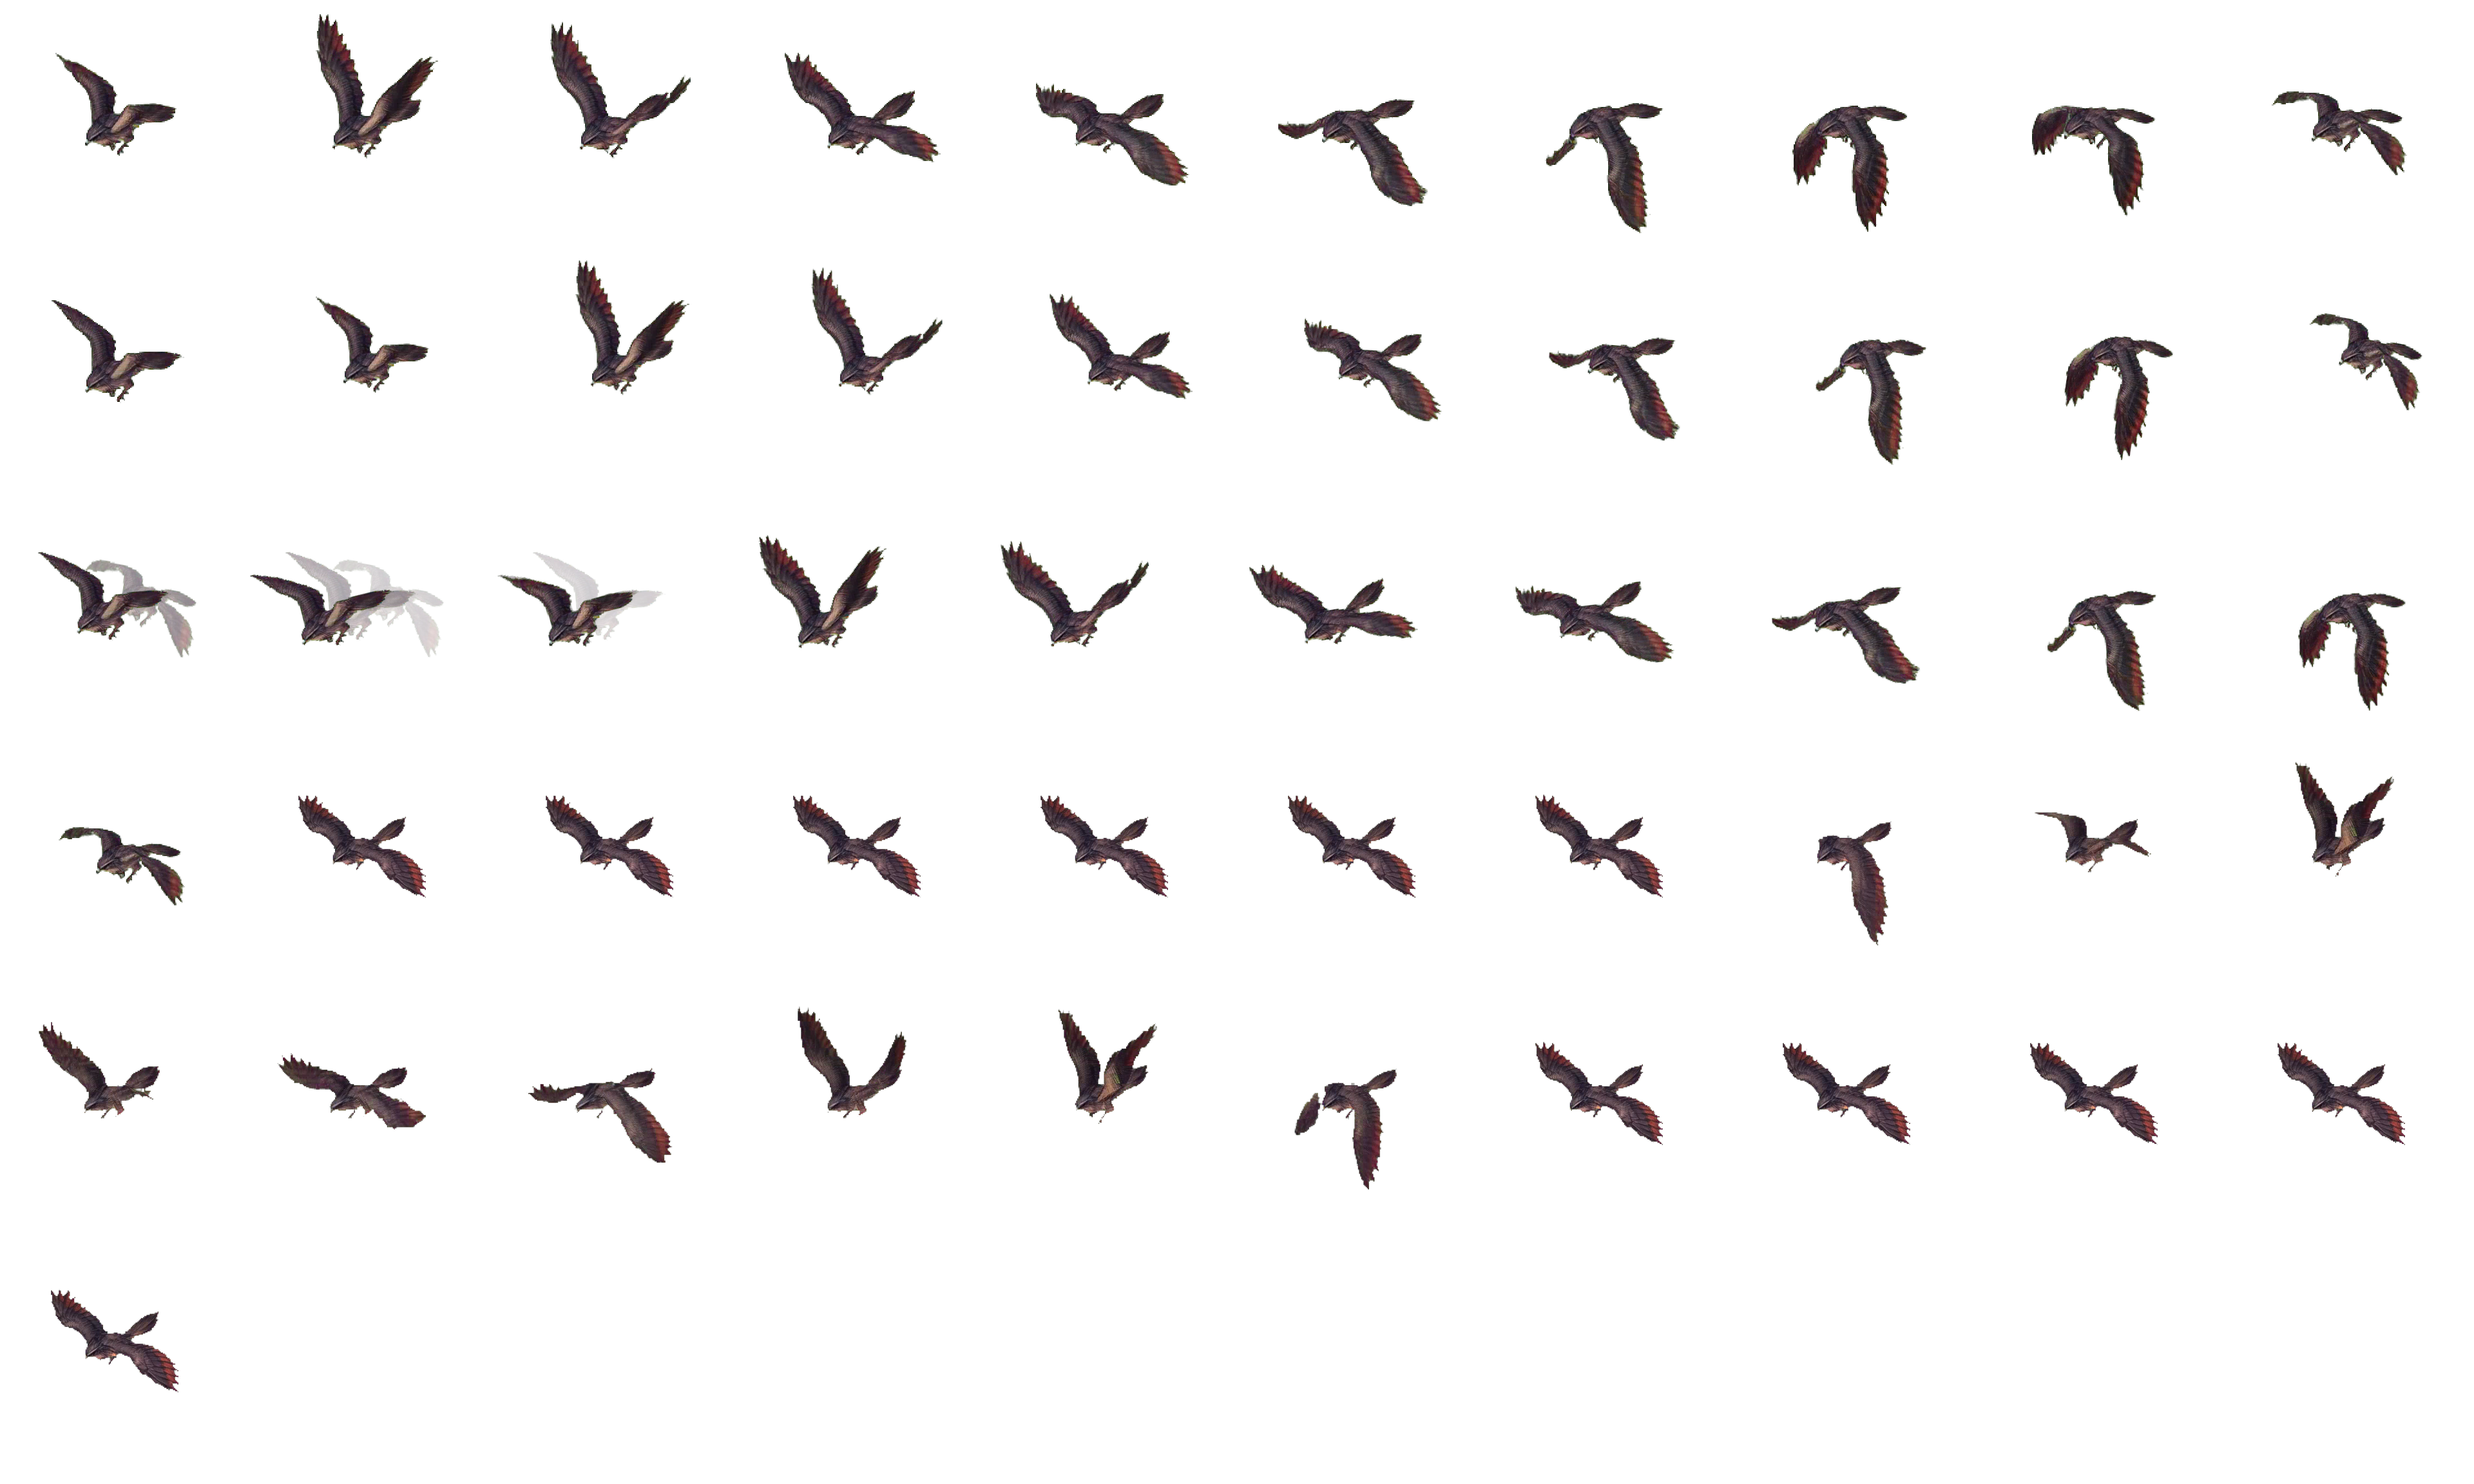
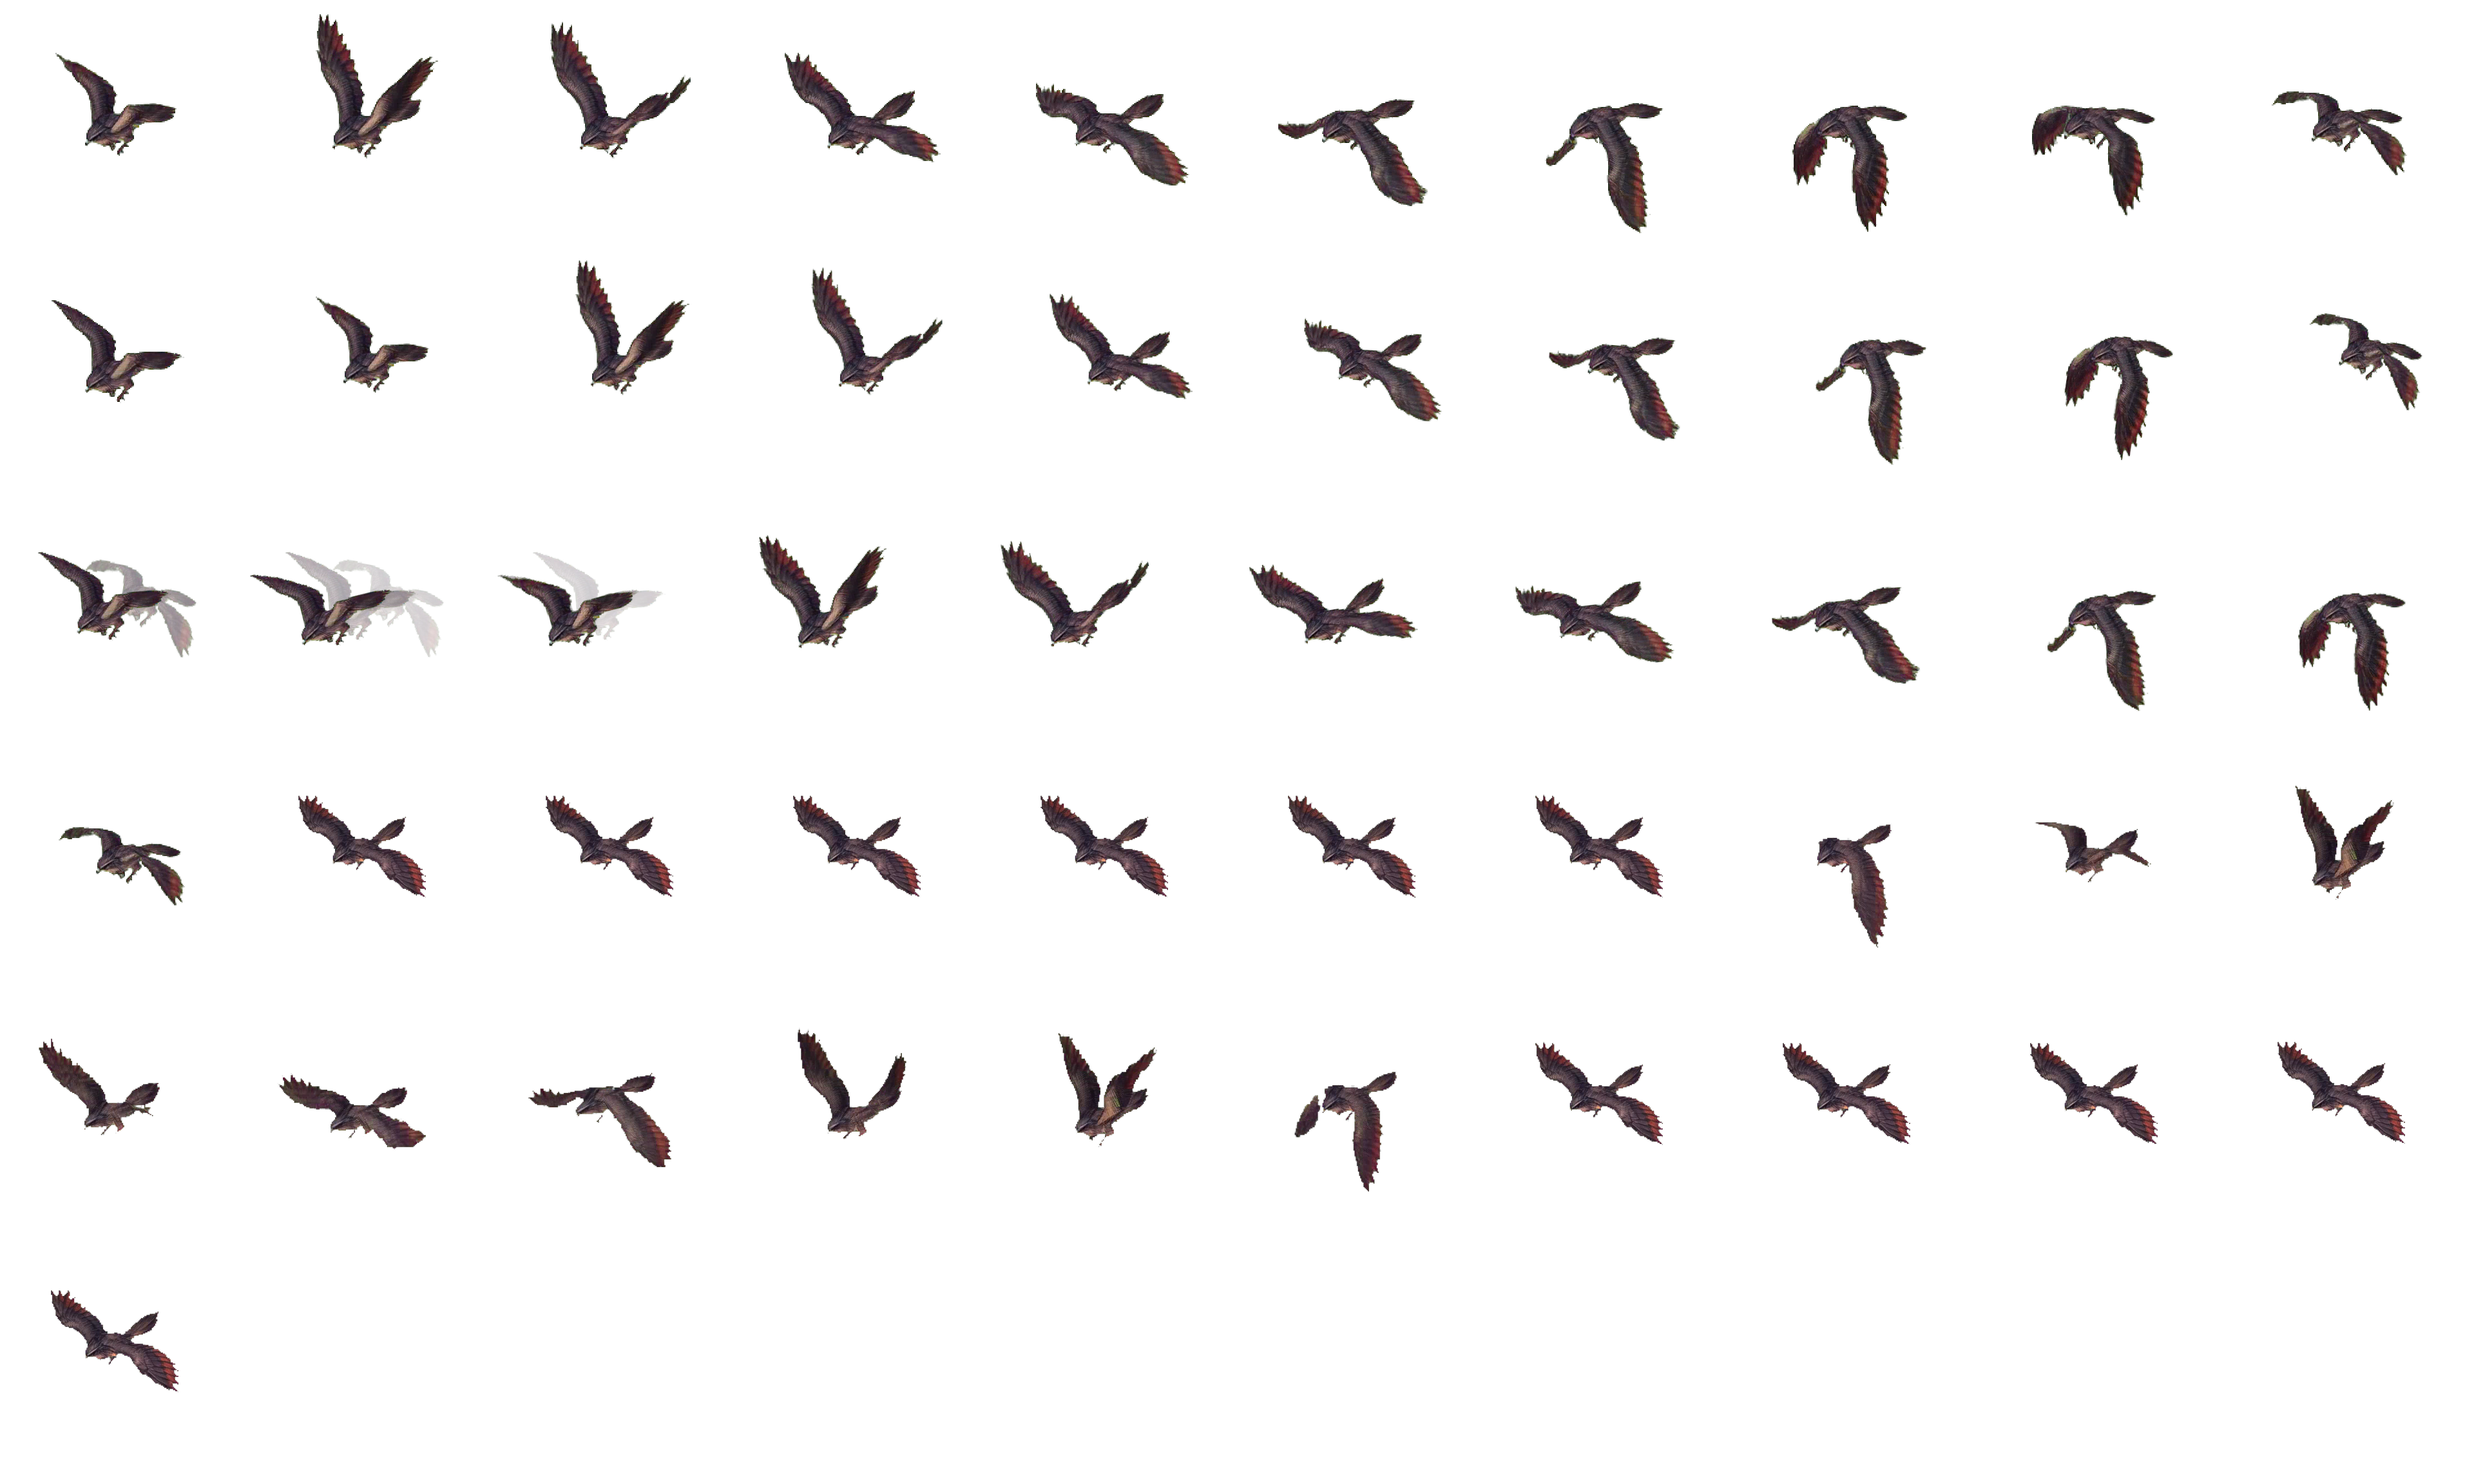
Stabilize falcon shot body bob; erase rocks from falcon-humanoid stomp impact

diff --git a/cocos-pilot/assets/scripts/TowerMonsterArt.ts b/cocos-pilot/assets/scripts/TowerMonsterArt.ts
@@ -72,9 +72,9 @@ export class TowerMonsterArt {
    scorpion:[.65,.255,.9453],'scorpion-humanoid':[.78,.20,.9],
    // bat: 2026-11-23 shot clip open-mouth frame (cell .40,.57; anchor .4954,.7458; displayScale 1.0817).
    bat:[.5+(.40-.4954)*1.0817,.72-(.7458-.57)*1.0817,.72],'bat-humanoid':[.36,.30,.9],
-   // falcon / falcon-humanoid: 2026-11-24 shot clip release frame shot-009 (falcon cell beak .35,.47; anchor .5,.68; ds 1.4566 /
+   // falcon / falcon-humanoid: 2026-11-24 shot clip release frame shot-009 (falcon cell beak .35,.54 after the 11-24 body stabilization; anchor .5,.68; ds 1.4566 /
    // falcon-humanoid cell beak .27,.26; anchor .4113,.864; ds 1).
-   falcon:[.5+(.35-.5)*1.4566,.72-(.68-.47)*1.4566,.72],'falcon-humanoid':[.5+(.27-.4113),.9-(.864-.26),.9]
+   falcon:[.5+(.35-.5)*1.4566,.72-(.68-.54)*1.4566,.72],'falcon-humanoid':[.5+(.27-.4113),.9-(.864-.26),.9]
   };
   const m=marks[family];return m?{u:m[0],v:m[1],support:m[2]}:null;
  }

diff --git a/design/xianxia-boss-skills-2026-11-24/export.py b/design/xianxia-boss-skills-2026-11-24/export.py
@@ -9,7 +9,7 @@
 # so a smaller cell needs no 480/small compensation; displayScale is only the fit scale ds. Existing atlases were corrected.
 # Every existing runtime frame is copied byte-identically. usage: export.py bear-humanoid|rhino|yak
 from pathlib import Path
-from PIL import Image, ImageFilter
+from PIL import Image, ImageFilter, ImageDraw
 import numpy as np, json, hashlib, sys
 ROOT = Path(__file__).resolve().parents[2]; RES = ROOT / 'cocos-pilot/assets/resources/tower-monsters-motion'; HERE = Path(__file__).resolve().parent
 COUNTS = {'windup': 6, 'active': 2, 'recovery': 8}
@@ -18,7 +18,9 @@ JOBS = {
     # (source 36-43) are skipped, active is the arms-forward throw (44, 46), then hold and settle (76-100).
     # Falcon-humanoid M07 stomp v2 (padded reference, wings folded): leg lift (2-38), stomp (39-44, rocks/feathers removed by
     # despeckle), settle (60-100). Replaces the 11-11 v1 stomp frames (wing cut by the video edge, already off in routing).
-    'falcon-humanoid': [('stomp', 'falcon-humanoid-m07', {'windup': (2, 38), 'active': (39, 44), 'recovery': (60, 100), 'despeckle': True, 'replace': True})],
+    'falcon-humanoid': [('stomp', 'falcon-humanoid-m07', {'windup': (2, 38), 'active': (39, 44), 'recovery': (60, 100), 'despeckle': True, 'replace': True,
+        # 2026-11-24 hand cleanup of the rocks left beside the landing foot (480-cell circles x, y, r per clip frame)
+        'erase': {6: [(22, 422, 20), (28, 452, 22), (66, 418, 9), (44, 431, 7), (68, 446, 22)], 7: [(62, 433, 14)]}})],
     'spider-lady': [('web', 'spider-lady-m10', {'windup': (2, 34), 'active': [44, 46], 'recovery': (76, 100)})],
 }
 W, H = 3840, 4096
@@ -97,6 +99,9 @@ def build(fam):
         size = round(480 * s); frames = []
         for j, im in enumerate(keyed):
             f = Image.new('RGBA', (480, 480)); sc = im.resize((size, size), Image.Resampling.LANCZOS); f.paste(sc, (round(ox), round(oy)), sc)
+            for x, y, r in win.get('erase', {}).get(j, []):
+                m = Image.new('L', f.size, 0); ImageDraw.Draw(m).ellipse((x - r, y - r, x + r, y + r), fill=255)
+                al = np.array(f.getchannel('A')); al[np.array(m) > 0] = 0; f.putalpha(Image.fromarray(al))
             frames.append((f'{clip}-{j:03}', f))
         composed.append((clip, phases, frames, ds, [round(anchor[0], 4), round(anchor[1], 4)]))
         report[clip] = dict(cleanFrames=clean, source=src, sourceIndices=ids, phases=phases, scale=s, offset=[ox, oy], fitDisplayScale=ds)

diff --git a/design/xianxia-normal-attacks-2026-11-22/export.py b/design/xianxia-normal-attacks-2026-11-22/export.py
@@ -33,7 +33,7 @@ JOBS = {
     'bat': [('shot', 'bat-shot', {'windup': (2, 20), 'active': (22, 30), 'recovery': (40, 96), 'counts': {'windup': 9, 'active': 3, 'recovery': 8}})],
     # 2026-11-24 falcon shot v1 salvage: from source ~31 it throws white feather darts and a feather burst (until ~95),
     # so the clip stops at the wing beat (28-30, a few loose feathers removed by despeckle) and recovers by replaying the windup.
-    'falcon': [('shot', 'falcon-shot', {'windup': (2, 26), 'active': [27, 28, 29], 'recovery': [26, 23, 19, 15, 11, 7, 3, 1], 'counts': {'windup': 9}, 'despeckle': True})],
+    'falcon': [('shot', 'falcon-shot', {'windup': (2, 26), 'active': [27, 28, 29], 'recovery': [26, 23, 19, 15, 11, 7, 3, 1], 'counts': {'windup': 9}, 'despeckle': True, 'stabilize': True})],
     # Falcon-humanoid shot v1 salvage: from ~24 the wing smears green and from ~36 both wings spread past the frame.
     # Keep the folded-wing lean and the head/arm thrust (21-23), then replay the windup in reverse.
     'falcon-humanoid': [('shot', 'falcon-humanoid-shot', {'windup': (2, 21), 'active': [21, 22, 23], 'recovery': [20, 17, 14, 11, 8, 5, 2, 1], 'counts': {'windup': 9}})],
@@ -102,6 +102,13 @@ def build(fam):
             for i in range(c): ids.append(a + round(i * (b - a) / c)); n += 1
         keyed = [load(raw / f'{i + 1:03}.png') for i in ids]
         if win.get('despeckle'): keyed = [despeckle(k) for k in keyed]
+        if win.get('stabilize'):  # 2026-11-24: pin the body (densest 40-row band) to the first frame's height; wings still move
+            def core(im):
+                rows = (np.array(im.getchannel('A')) >= 128).sum(1); return int(np.argmax(np.convolve(rows, np.ones(40), 'same')))
+            ref = core(keyed[0]); moved = []
+            for k in keyed:
+                d = ref - core(k); c = Image.new('RGBA', k.size); c.paste(k, (0, d), k); moved.append(c)
+            keyed = moved
         bs = [box(k) for k in keyed]
         ux0, uy0, ux1, uy1 = min(b[0] for b in bs), min(b[1] for b in bs), max(b[2] for b in bs), max(b[3] for b in bs)
         ds, anchor = 1.0, list(meta['anchor'])

diff --git a/design/xianxia-boss-skills-2026-11-24/README.md b/design/xianxia-boss-skills-2026-11-24/README.md
@@ -10,7 +10,7 @@
 | falcon-humanoid M07 裂地重踏 stomp v2 | job_iqdAdUjGuhTJ4byHpHLM32wg | asset_qzC1Msua9TsGqrEyx1qBaqkf | asset_Dma9kEzsbNuspoRPcnZZjT92（留白版） | 202611242 | 通过，已接入。11-11 v1 因翅膀出画撤下；v2 全程收翅。前摇 2–38（抬腿），生效 39–44（踏地，despeckle 去掉大部分碎石羽毛），收招 60–100 |
 
 - 隼将 M07：替换图集里旧的 stomp 帧（导出 `replace`），重新接入路由。真实游戏验收（精英第 7 层、Boss 第 6 层）通过。
-- 已知问题：踏地瞬间脚边仍有两三块贴着脚的小碎石（与身体相连，去不掉）。
+- 踏地瞬间脚边的碎石：同日在导出脚本里用 `erase` 手工圈掉（生效帧 6、7），已清理。
 
 今日额度 50 CU 全部用完：妖隼 shot、隼将 shot、白虎 sweep v2（不通过）、蛛姬 M10、隼将 M07。
 

diff --git a/design/xianxia-normal-attacks-2026-11-22/README.md b/design/xianxia-normal-attacks-2026-11-22/README.md
@@ -67,4 +67,4 @@ spider-lady-web（`spider-lady-web-request.json`，seed 202611242）未提交，
 
 - `export.py` 新增 `despeckle`：只保留最大的不透明连通块，去掉飘散的羽毛。
 - 出射点改为 shot-009 出手帧的喙部。远程出射检查 96 组通过；普攻验收新增 5 例（妖隼普通、精英；隼将普通、精英、Boss）全部通过。
-- 已知问题：妖隼前摇里身体上下摆动较大；隼将前摇动作幅度小，出手是硬切。之后额度宽裕时可重做。
+- 已知问题：~~妖隼前摇里身体上下摆动较大~~（同日本地修正：导出加 `stabilize`，把身体最密的 40 行带固定在首帧高度，摆动从约 52px 降到约 13px；出手帧喙部改为 .35,.54）；隼将前摇动作幅度小，出手是硬切。之后额度宽裕时可重做。
